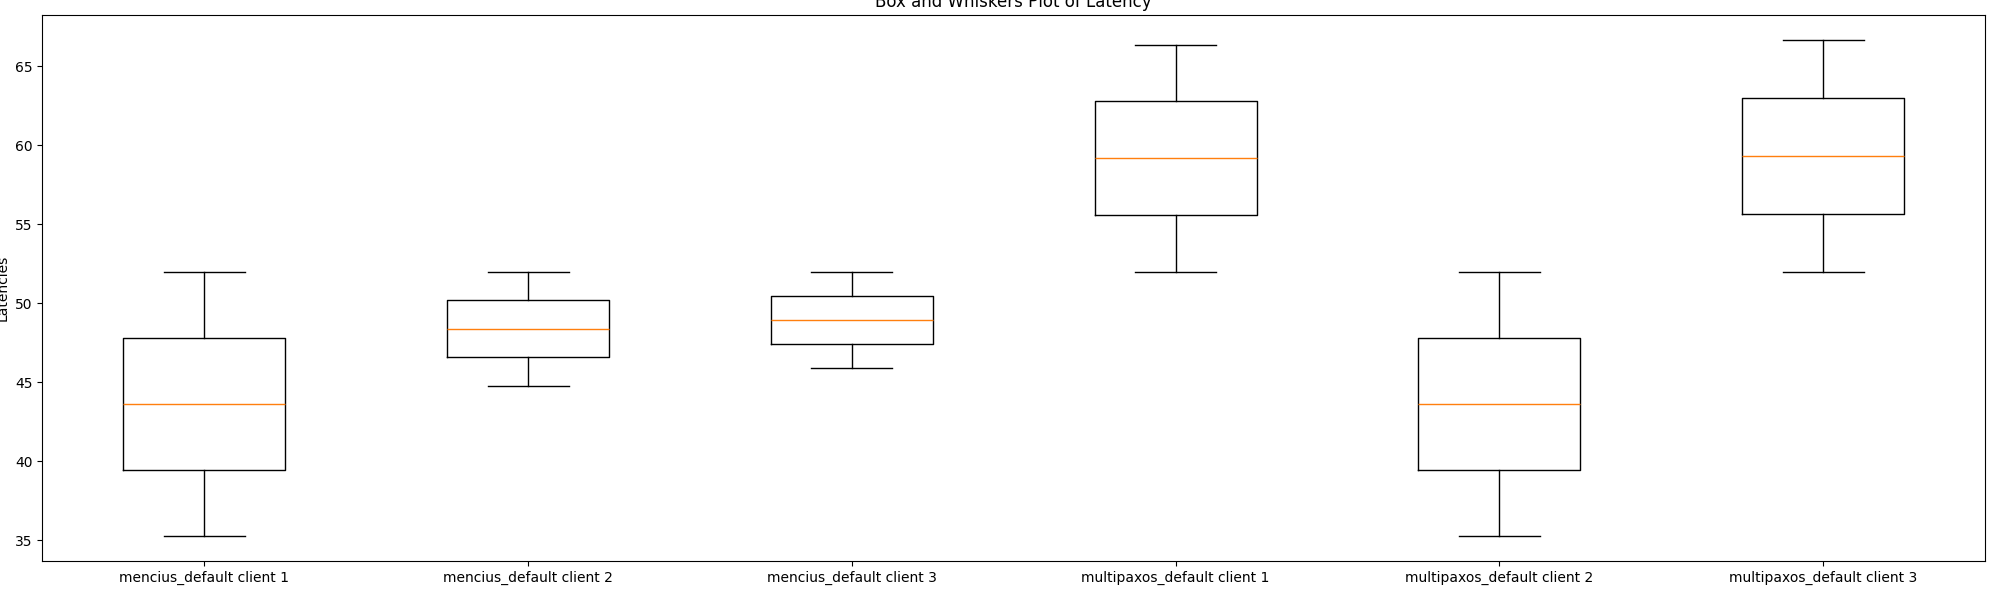
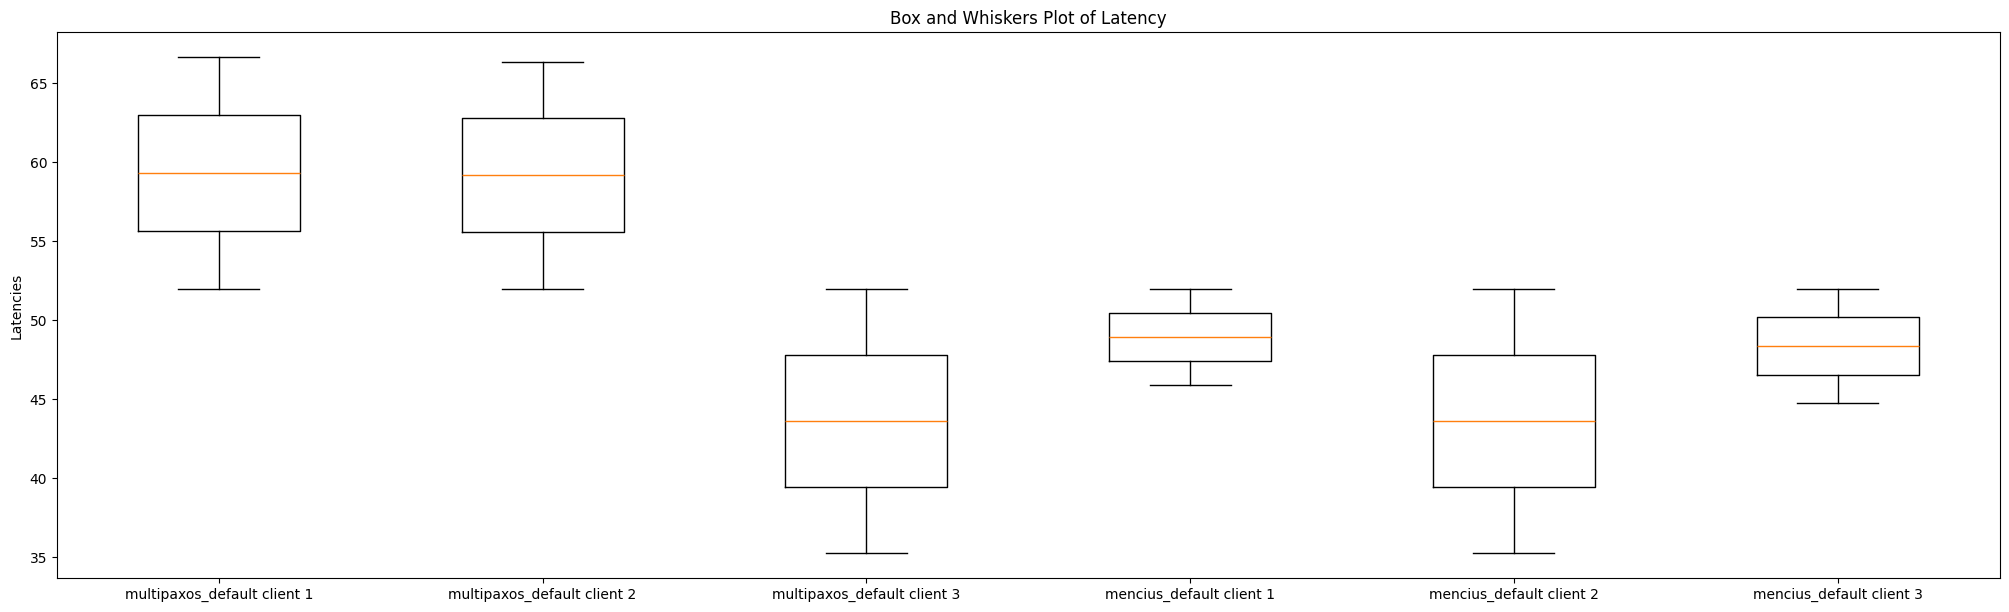
tight bounding box

diff --git a/plotting/main.py b/plotting/main.py
@@ -209,11 +209,11 @@ def box_whiskers_plot_latency(throughput_trials, suffix):
 
     plt.title(f'Box and Whiskers Plot of Latency')
     plt.ylabel('Latencies')
-    plt.savefig(os.path.join(PLOTS_DIR, f'latency_BWplot_{suffix}.png'))
+    plt.savefig(os.path.join(PLOTS_DIR, f'latency_BWplot_{suffix}.png'), bbox_inches='tight')
 
 
 def box_whiskers_plot_throughput(throughput_trials, suffix):
-    plt.figure(figsize=(20, 6))
+    plt.figure(figsize=(25, 10))
 
     data = []
     labels = []
@@ -229,7 +229,7 @@ def box_whiskers_plot_throughput(throughput_trials, suffix):
 
     plt.title(f'Box and Whiskers Plot of Throughput')
     plt.ylabel('Throughput')
-    plt.savefig(os.path.join(PLOTS_DIR, f'throughput_BWplot_{suffix}.png'))
+    plt.savefig(os.path.join(PLOTS_DIR, f'throughput_BWplot_{suffix}.png'), bbox_inches='tight')
 
 
 def box_whiskers_plot_throughput1(throughput_trials, suffix):
